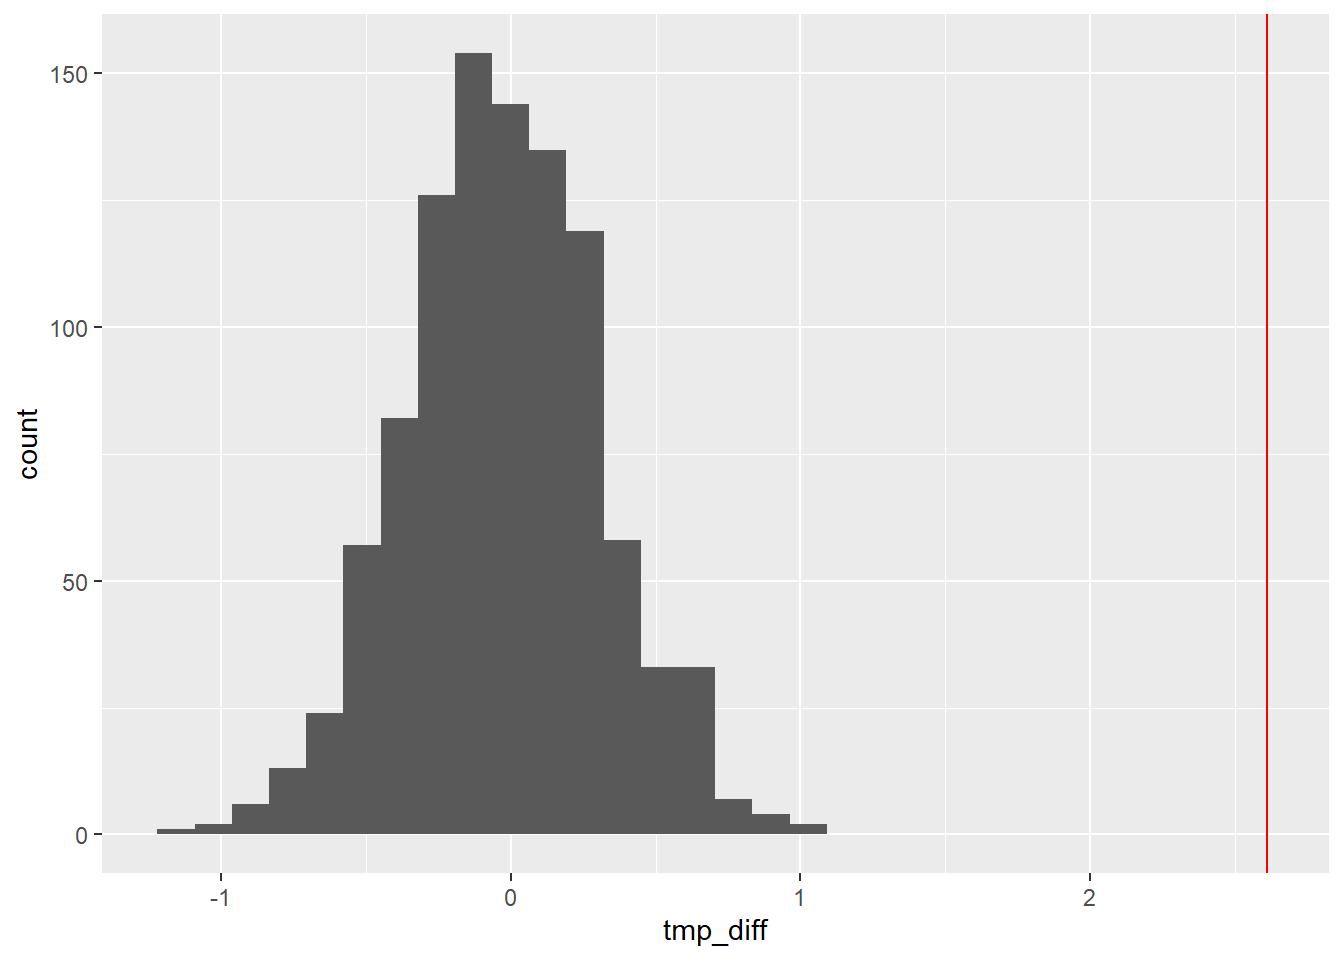
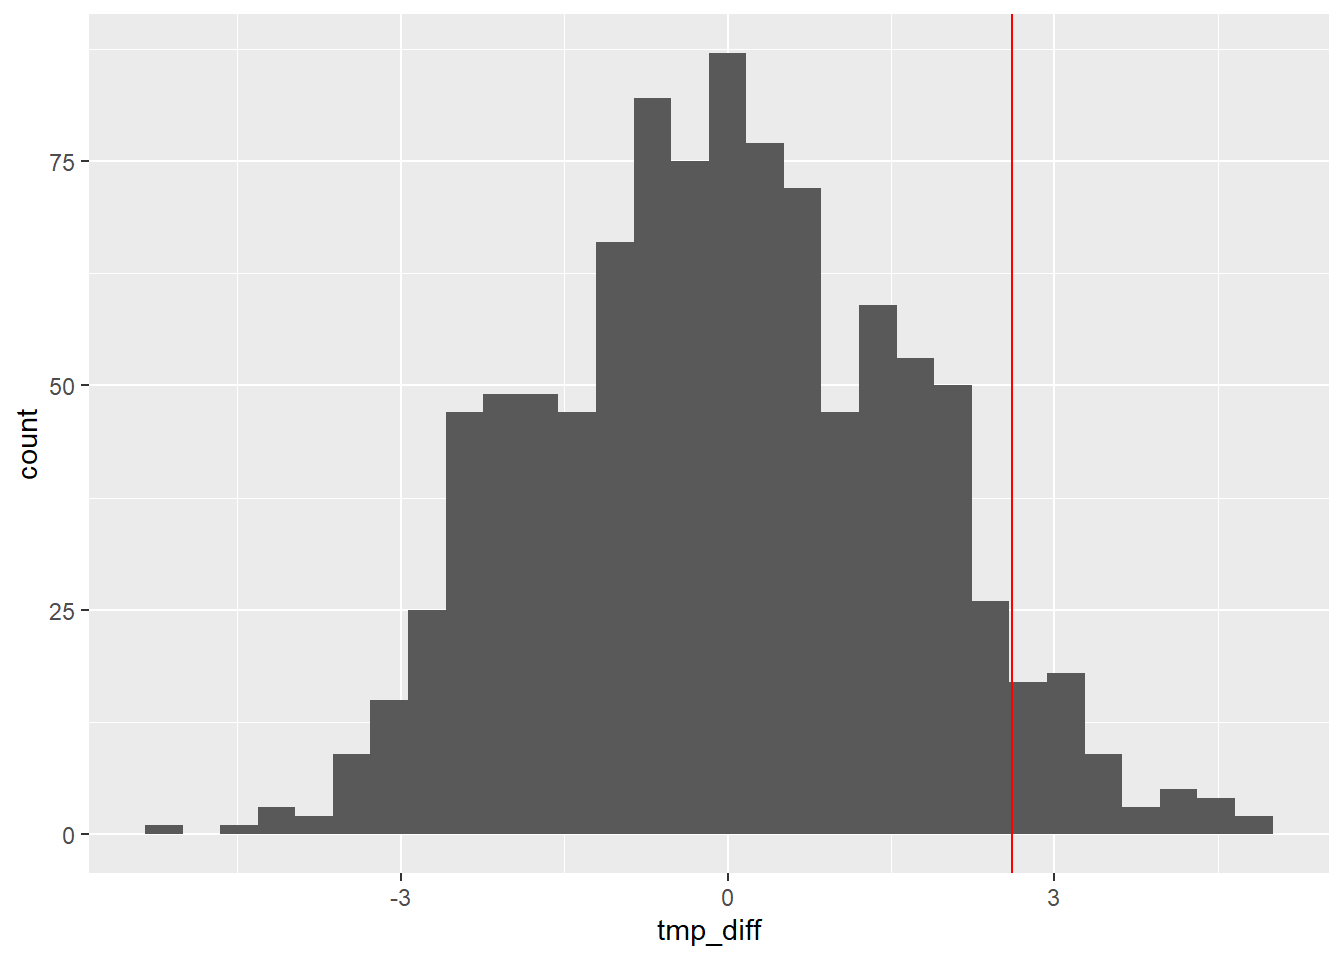
added text and example

diff --git a/docs/stat-modeling-permutationstest.html b/docs/stat-modeling-permutationstest.html
@@ -593,7 +593,7 @@ code span.wa { color: #60a0b0; font-weight: bold; font-style: italic; } /* Warni
 </header><div class="cell">
 
 </div>
-<p><em>Version vom Mai 16, 2023 um 12:46:09</em></p>
+<p><em>Version vom Mai 16, 2023 um 14:34:20</em></p>
 <div class="quarto-figure quarto-figure-center">
 <figure class="figure"><p><img src="images/caution.png" class="img-fluid figure-img" style="width:50.0%"></p>
 </figure>
@@ -629,7 +629,8 @@ code span.wa { color: #60a0b0; font-weight: bold; font-style: italic; } /* Warni
 <div class="cell">
 <div class="sourceCode" id="cb2"><pre class="downlit sourceCode r code-with-copy"><code class="sourceCode R"><span><span class="va">model_tbl</span> <span class="op">&lt;-</span> <span class="fu">read_csv2</span><span class="op">(</span><span class="st">"data/flea_dog_cat_length_weight.csv"</span><span class="op">)</span> <span class="op">%&gt;%</span></span>
 <span>  <span class="fu">select</span><span class="op">(</span><span class="va">animal</span>, <span class="va">jump_length</span>, <span class="va">weight</span><span class="op">)</span> <span class="op">%&gt;%</span> </span>
-<span>  <span class="fu"><a href="https://rdrr.io/r/stats/filter.html">filter</a></span><span class="op">(</span><span class="va">animal</span> <span class="op"><a href="https://rdrr.io/r/base/match.html">%in%</a></span> <span class="fu"><a href="https://rdrr.io/r/base/c.html">c</a></span><span class="op">(</span><span class="st">"dog"</span>, <span class="st">"cat"</span><span class="op">)</span><span class="op">)</span></span></code><button title="In die Zwischenablage kopieren" class="code-copy-button"><i class="bi"></i></button></pre></div>
+<span>  <span class="fu"><a href="https://rdrr.io/r/stats/filter.html">filter</a></span><span class="op">(</span><span class="va">animal</span> <span class="op"><a href="https://rdrr.io/r/base/match.html">%in%</a></span> <span class="fu"><a href="https://rdrr.io/r/base/c.html">c</a></span><span class="op">(</span><span class="st">"dog"</span>, <span class="st">"cat"</span><span class="op">)</span><span class="op">)</span> <span class="op">%&gt;%</span> </span>
+<span>  <span class="fu">slice_sample</span><span class="op">(</span>n <span class="op">=</span> <span class="fl">20</span><span class="op">)</span></span></code><button title="In die Zwischenablage kopieren" class="code-copy-button"><i class="bi"></i></button></pre></div>
 </div>
 
 <div class="no-row-height column-margin column-container"><div class="">
@@ -647,66 +648,90 @@ code span.wa { color: #60a0b0; font-weight: bold; font-style: italic; } /* Warni
 <span>  <span class="fu">pull</span><span class="op">(</span><span class="va">mean_jump</span><span class="op">)</span> <span class="op">%&gt;%</span> </span>
 <span>  <span class="fu"><a href="https://rdrr.io/r/base/diff.html">diff</a></span><span class="op">(</span><span class="op">)</span></span></code><button title="In die Zwischenablage kopieren" class="code-copy-button"><i class="bi"></i></button></pre></div>
 <div class="cell-output cell-output-stdout">
-<pre><code>[1] 2.6119</code></pre>
+<pre><code>[1] 3.376154</code></pre>
 </div>
 </div>
 <div class="cell">
 <div class="sourceCode" id="cb5"><pre class="downlit sourceCode r code-with-copy"><code class="sourceCode R"><span><span class="va">n_sim</span> <span class="op">&lt;-</span> <span class="fl">1000</span></span>
 <span></span>
-<span><span class="va">foo</span> <span class="op">&lt;-</span> <span class="fu">map_dfr</span><span class="op">(</span><span class="fl">1</span><span class="op">:</span><span class="va">n_sim</span>, \<span class="op">(</span><span class="va">x</span><span class="op">)</span> <span class="op">{</span></span>
-<span>  <span class="va">tmp_diff</span> <span class="op">&lt;-</span> <span class="va">model_tbl</span> <span class="op">%&gt;%</span></span>
+<span><span class="va">mean_perm_tbl</span> <span class="op">&lt;-</span> <span class="fu">map_dfr</span><span class="op">(</span><span class="fl">1</span><span class="op">:</span><span class="va">n_sim</span>, \<span class="op">(</span><span class="va">x</span><span class="op">)</span> <span class="op">{</span></span>
+<span>  <span class="va">mean_diff</span> <span class="op">&lt;-</span> <span class="va">model_tbl</span> <span class="op">%&gt;%</span></span>
 <span>    <span class="fu">mutate</span><span class="op">(</span>animal <span class="op">=</span> <span class="fu"><a href="https://rdrr.io/r/base/sample.html">sample</a></span><span class="op">(</span><span class="va">animal</span><span class="op">)</span><span class="op">)</span> <span class="op">%&gt;%</span> </span>
 <span>    <span class="fu">group_by</span><span class="op">(</span><span class="va">animal</span><span class="op">)</span> <span class="op">%&gt;%</span> </span>
 <span>    <span class="fu">summarise</span><span class="op">(</span>mean_jump <span class="op">=</span> <span class="fu"><a href="https://rdrr.io/r/base/mean.html">mean</a></span><span class="op">(</span><span class="va">jump_length</span><span class="op">)</span><span class="op">)</span> <span class="op">%&gt;%</span> </span>
 <span>    <span class="fu">pull</span><span class="op">(</span><span class="va">mean_jump</span><span class="op">)</span> <span class="op">%&gt;%</span> </span>
 <span>    <span class="fu"><a href="https://rdrr.io/r/base/diff.html">diff</a></span><span class="op">(</span><span class="op">)</span></span>
-<span>  <span class="kw"><a href="https://rdrr.io/r/base/function.html">return</a></span><span class="op">(</span><span class="fu">tibble</span><span class="op">(</span><span class="va">tmp_diff</span><span class="op">)</span><span class="op">)</span></span>
+<span>  <span class="kw"><a href="https://rdrr.io/r/base/function.html">return</a></span><span class="op">(</span><span class="fu">tibble</span><span class="op">(</span><span class="va">mean_diff</span><span class="op">)</span><span class="op">)</span></span>
 <span><span class="op">}</span><span class="op">)</span></span></code><button title="In die Zwischenablage kopieren" class="code-copy-button"><i class="bi"></i></button></pre></div>
 </div>
-<div class="cell">
-<div class="sourceCode" id="cb6"><pre class="downlit sourceCode r code-with-copy"><code class="sourceCode R"><span><span class="fu">ggplot</span><span class="op">(</span><span class="va">foo</span>, <span class="fu">aes</span><span class="op">(</span><span class="va">tmp_diff</span><span class="op">)</span><span class="op">)</span> <span class="op">+</span></span>
-<span>  <span class="fu">geom_histogram</span><span class="op">(</span><span class="op">)</span> <span class="op">+</span></span>
-<span>  <span class="fu">geom_vline</span><span class="op">(</span>xintercept <span class="op">=</span> <span class="fl">2.6119</span>, color <span class="op">=</span> <span class="st">"red"</span><span class="op">)</span></span></code><button title="In die Zwischenablage kopieren" class="code-copy-button"><i class="bi"></i></button></pre></div>
-<div class="cell-output cell-output-stderr">
-<pre><code>`stat_bin()` using `bins = 30`. Pick better value with `binwidth`.</code></pre>
-</div>
+<div class="cell" data-layout-align="center">
 <div class="cell-output-display">
-<p><img src="stat-modeling-permutationstest_files/figure-html/unnamed-chunk-6-1.png" class="img-fluid" width="672"></p>
+<div id="fig-permut-01" class="quarto-figure quarto-figure-center anchored">
+<figure class="figure"><p><img src="stat-modeling-permutationstest_files/figure-html/fig-permut-01-1.png" class="img-fluid figure-img" width="480"></p>
+<p></p><figcaption class="figure-caption">Abbildung&nbsp;50.1— Histogram</figcaption><p></p>
+</figure>
+</div>
+</div>
+</div>
+<p>Zweiseitiges Testen deshalb nehmen wir den Wert mal zwei.</p>
+<div class="cell">
+<div class="sourceCode" id="cb6"><pre class="downlit sourceCode r code-with-copy"><code class="sourceCode R"><span><span class="fu"><a href="https://rdrr.io/r/base/sum.html">sum</a></span><span class="op">(</span><span class="va">mean_perm_tbl</span><span class="op">$</span><span class="va">mean_diff</span> <span class="op">&gt;=</span> <span class="fl">2.6119</span><span class="op">)</span><span class="op">/</span><span class="va">n_sim</span> <span class="op">*</span> <span class="fl">2</span></span></code><button title="In die Zwischenablage kopieren" class="code-copy-button"><i class="bi"></i></button></pre></div>
+<div class="cell-output cell-output-stdout">
+<pre><code>[1] 0.112</code></pre>
+</div>
+</div>
+<p>Ist das Gleiche als wenn wir dann den Mittelwert berechnen.</p>
+<div class="cell">
+<div class="sourceCode" id="cb8"><pre class="downlit sourceCode r code-with-copy"><code class="sourceCode R"><span><span class="fu"><a href="https://rdrr.io/r/base/mean.html">mean</a></span><span class="op">(</span><span class="va">mean_perm_tbl</span><span class="op">$</span><span class="va">mean_diff</span> <span class="op">&gt;=</span> <span class="fl">2.6119</span><span class="op">)</span> <span class="op">*</span> <span class="fl">2</span></span></code><button title="In die Zwischenablage kopieren" class="code-copy-button"><i class="bi"></i></button></pre></div>
+<div class="cell-output cell-output-stdout">
+<pre><code>[1] 0.112</code></pre>
 </div>
 </div>
 </section><section id="bestimmtheitsmaß-r2" class="level2" data-number="50.4"><h2 data-number="50.4" class="anchored" data-anchor-id="bestimmtheitsmaß-r2">
 <span class="header-section-number">50.4</span> Bestimmtheitsmaß <span class="math inline">\(R^2\)</span>
 </h2>
 <div class="cell">
-<div class="sourceCode" id="cb8"><pre class="downlit sourceCode r code-with-copy"><code class="sourceCode R"><span><span class="va">model_tbl</span> <span class="op">%$%</span></span>
+<div class="sourceCode" id="cb10"><pre class="downlit sourceCode r code-with-copy"><code class="sourceCode R"><span><span class="va">model_tbl</span> <span class="op">%$%</span></span>
 <span>  <span class="fu"><a href="https://rdrr.io/r/stats/lm.html">lm</a></span><span class="op">(</span><span class="va">jump_length</span> <span class="op">~</span> <span class="va">weight</span><span class="op">)</span> <span class="op">%&gt;%</span> </span>
 <span>  <span class="fu">glance</span><span class="op">(</span><span class="op">)</span> <span class="op">%&gt;%</span> </span>
 <span>  <span class="fu">pull</span><span class="op">(</span><span class="va">r.squared</span><span class="op">)</span></span></code><button title="In die Zwischenablage kopieren" class="code-copy-button"><i class="bi"></i></button></pre></div>
 <div class="cell-output cell-output-stdout">
-<pre><code>[1] 0.291164</code></pre>
+<pre><code>[1] 0.3000498</code></pre>
 </div>
 </div>
 <div class="cell">
-<div class="sourceCode" id="cb10"><pre class="downlit sourceCode r code-with-copy"><code class="sourceCode R"><span><span class="va">n_sim</span> <span class="op">&lt;-</span> <span class="fl">1000</span></span>
+<div class="sourceCode" id="cb12"><pre class="downlit sourceCode r code-with-copy"><code class="sourceCode R"><span><span class="va">n_sim</span> <span class="op">&lt;-</span> <span class="fl">1000</span></span>
 <span></span>
-<span><span class="va">foo</span> <span class="op">&lt;-</span> <span class="fu">map_dfr</span><span class="op">(</span><span class="fl">1</span><span class="op">:</span><span class="va">n_sim</span>, \<span class="op">(</span><span class="va">x</span><span class="op">)</span> <span class="op">{</span></span>
-<span>  <span class="va">tmp_r2</span> <span class="op">&lt;-</span> <span class="va">model_tbl</span> <span class="op">%&gt;%</span></span>
+<span><span class="va">r2_perm_tbl</span> <span class="op">&lt;-</span> <span class="fu">map_dfr</span><span class="op">(</span><span class="fl">1</span><span class="op">:</span><span class="va">n_sim</span>, \<span class="op">(</span><span class="va">x</span><span class="op">)</span> <span class="op">{</span></span>
+<span>  <span class="va">r2</span> <span class="op">&lt;-</span> <span class="va">model_tbl</span> <span class="op">%&gt;%</span></span>
 <span>    <span class="fu">mutate</span><span class="op">(</span>weight <span class="op">=</span> <span class="fu"><a href="https://rdrr.io/r/base/sample.html">sample</a></span><span class="op">(</span><span class="va">weight</span><span class="op">)</span><span class="op">)</span> <span class="op">%$%</span></span>
 <span>    <span class="fu"><a href="https://rdrr.io/r/stats/lm.html">lm</a></span><span class="op">(</span><span class="va">jump_length</span> <span class="op">~</span> <span class="va">weight</span><span class="op">)</span> <span class="op">%&gt;%</span> </span>
 <span>    <span class="fu">glance</span><span class="op">(</span><span class="op">)</span> <span class="op">%&gt;%</span> </span>
 <span>    <span class="fu">pull</span><span class="op">(</span><span class="va">r.squared</span><span class="op">)</span></span>
-<span>  <span class="kw"><a href="https://rdrr.io/r/base/function.html">return</a></span><span class="op">(</span><span class="fu">tibble</span><span class="op">(</span><span class="va">tmp_r2</span><span class="op">)</span><span class="op">)</span></span>
+<span>  <span class="kw"><a href="https://rdrr.io/r/base/function.html">return</a></span><span class="op">(</span><span class="fu">tibble</span><span class="op">(</span><span class="va">r2</span><span class="op">)</span><span class="op">)</span></span>
 <span><span class="op">}</span><span class="op">)</span></span></code><button title="In die Zwischenablage kopieren" class="code-copy-button"><i class="bi"></i></button></pre></div>
 </div>
-<div class="cell">
-<div class="sourceCode" id="cb11"><pre class="downlit sourceCode r code-with-copy"><code class="sourceCode R"><span><span class="fu">ggplot</span><span class="op">(</span><span class="va">foo</span>, <span class="fu">aes</span><span class="op">(</span><span class="va">tmp_r2</span><span class="op">)</span><span class="op">)</span> <span class="op">+</span></span>
-<span>  <span class="fu">geom_histogram</span><span class="op">(</span><span class="op">)</span> <span class="op">+</span></span>
-<span>  <span class="fu">geom_vline</span><span class="op">(</span>xintercept <span class="op">=</span> <span class="fl">0.291164</span>, color <span class="op">=</span> <span class="st">"red"</span><span class="op">)</span></span></code><button title="In die Zwischenablage kopieren" class="code-copy-button"><i class="bi"></i></button></pre></div>
-<div class="cell-output cell-output-stderr">
-<pre><code>`stat_bin()` using `bins = 30`. Pick better value with `binwidth`.</code></pre>
-</div>
+<div class="cell" data-layout-align="center">
 <div class="cell-output-display">
-<p><img src="stat-modeling-permutationstest_files/figure-html/unnamed-chunk-9-1.png" class="img-fluid" width="672"></p>
+<div id="fig-permut-02" class="quarto-figure quarto-figure-center anchored">
+<figure class="figure"><p><img src="stat-modeling-permutationstest_files/figure-html/fig-permut-02-1.png" class="img-fluid figure-img" width="480"></p>
+<p></p><figcaption class="figure-caption">Abbildung&nbsp;50.2— Histogram</figcaption><p></p>
+</figure>
+</div>
+</div>
+</div>
+<p>Zweiseitiges Testen deshalb nehmen wir den Wert mal zwei.</p>
+<div class="cell">
+<div class="sourceCode" id="cb13"><pre class="downlit sourceCode r code-with-copy"><code class="sourceCode R"><span><span class="fu"><a href="https://rdrr.io/r/base/sum.html">sum</a></span><span class="op">(</span><span class="va">r2_perm_tbl</span><span class="op">$</span><span class="va">r2</span> <span class="op">&gt;=</span> <span class="fl">0.291164</span><span class="op">)</span><span class="op">/</span><span class="va">n_sim</span> <span class="op">*</span> <span class="fl">2</span></span></code><button title="In die Zwischenablage kopieren" class="code-copy-button"><i class="bi"></i></button></pre></div>
+<div class="cell-output cell-output-stdout">
+<pre><code>[1] 0.026</code></pre>
+</div>
+</div>
+<p>Ist das Gleiche als wenn wir dann den Mittelwert berechnen.</p>
+<div class="cell">
+<div class="sourceCode" id="cb15"><pre class="downlit sourceCode r code-with-copy"><code class="sourceCode R"><span><span class="fu"><a href="https://rdrr.io/r/base/mean.html">mean</a></span><span class="op">(</span><span class="va">r2_perm_tbl</span><span class="op">$</span><span class="va">r2</span> <span class="op">&gt;=</span> <span class="fl">0.291164</span><span class="op">)</span> <span class="op">*</span> <span class="fl">2</span></span></code><button title="In die Zwischenablage kopieren" class="code-copy-button"><i class="bi"></i></button></pre></div>
+<div class="cell-output cell-output-stdout">
+<pre><code>[1] 0.026</code></pre>
 </div>
 </div>
 </section><section id="links" class="level2" data-number="50.5"><h2 data-number="50.5" class="anchored" data-anchor-id="links">
